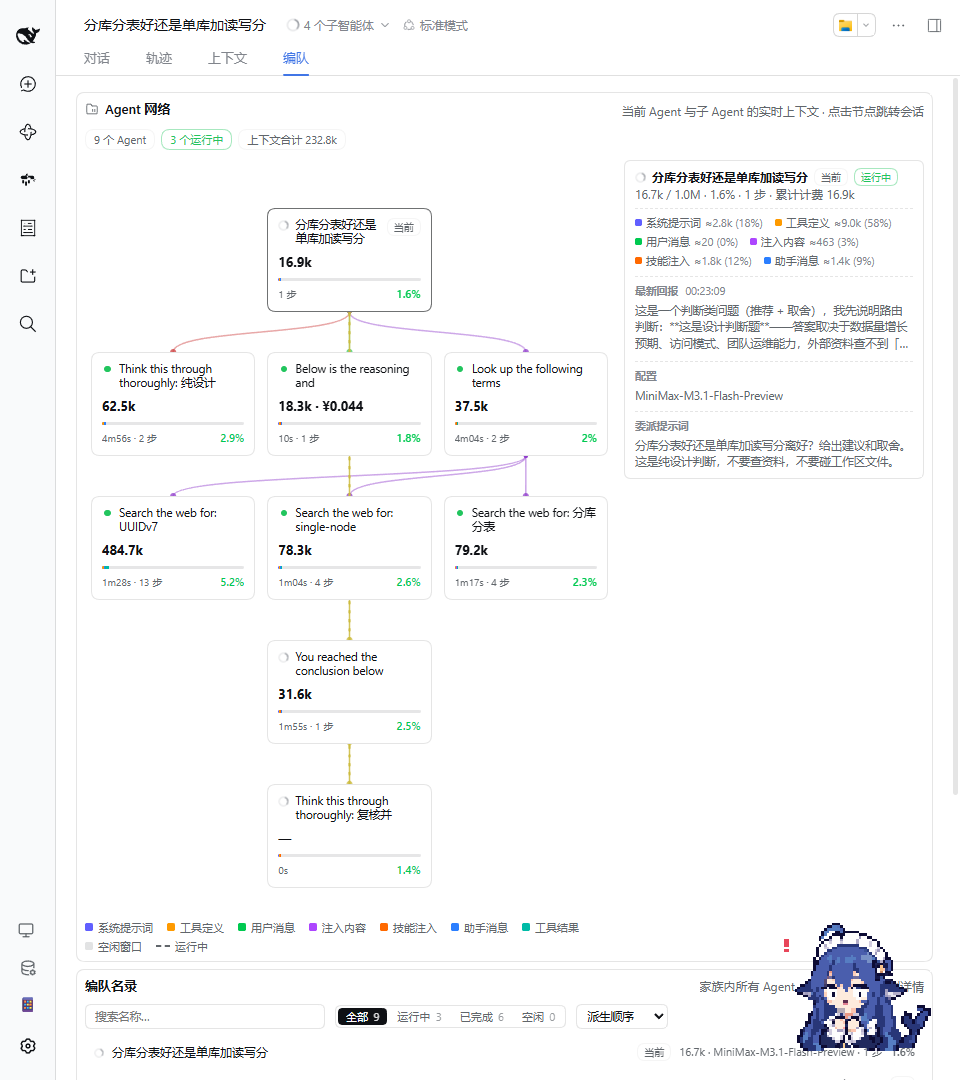
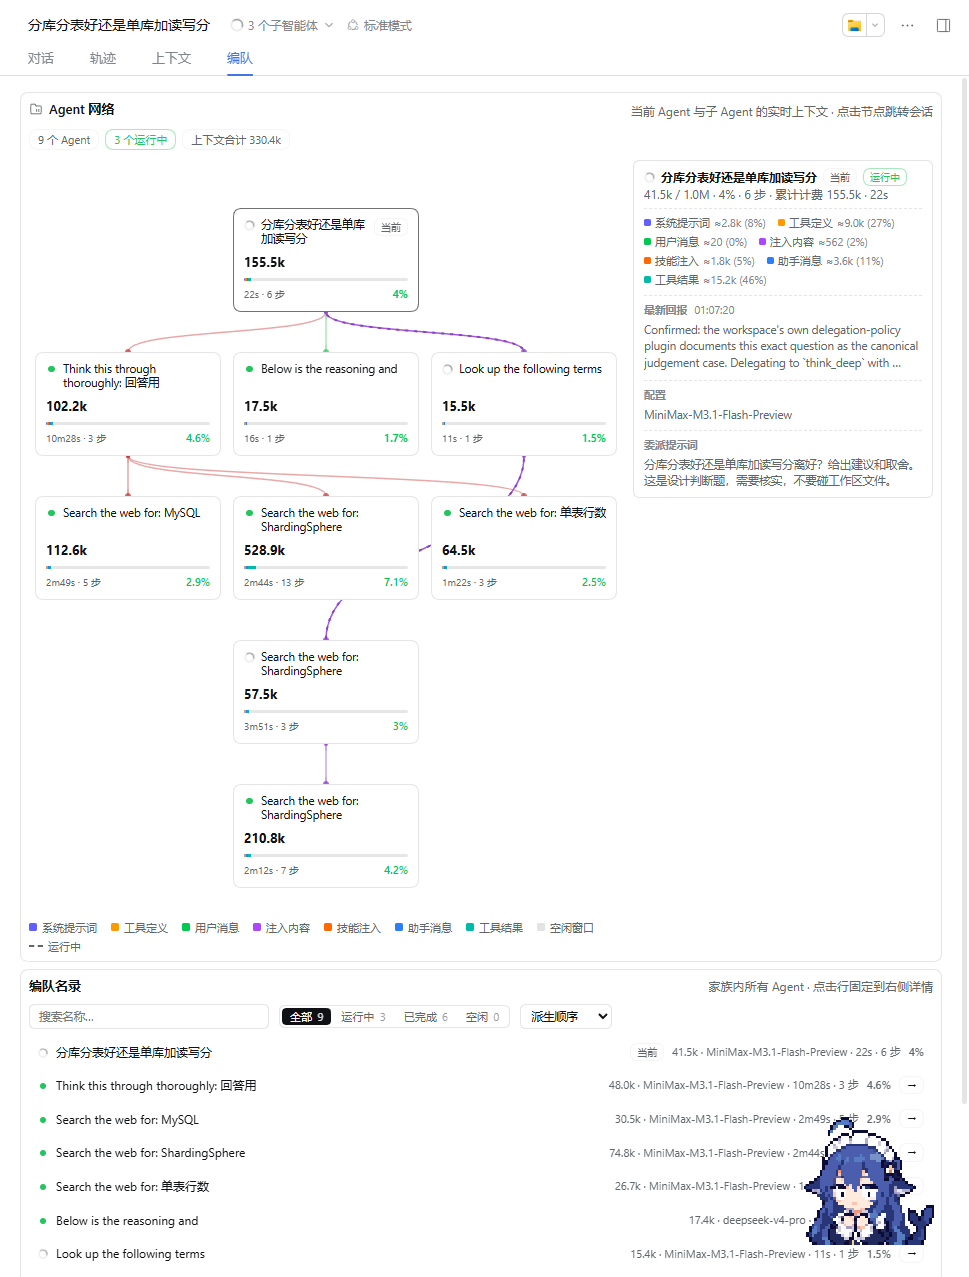
Turn the verifying child off, and record the run without it
The grounding pass already looks up what the reasoning needed checked, and
it does that from the child's own transcript — the place where the claims
that need checking actually are. A verifying child sees only the finished
conclusion and has to mine it for search terms itself, so it spends a
model's worth of work doing the same job with less to go on. In fifteen
sandbox runs it delivered a verdict twelve times and failed three, and
each failure threw the pipeline into a retrieval and a refinement nobody
needed.

It is off by default now. The code stays, and `verifyRounds: 1` or `2`
brings it back for the one thing it alone can catch: a citation that
supports a different claim than the one it was attached to.

The demo and the agent-network screenshot are a fresh run with the
verifier off. The screenshot's roster names every child by its first
line, and the row that says `deepseek-v4-pro` is the extractor running on
the model the settings page chose.

diff --git a/verify/verify.spec.ts b/verify/verify.spec.ts
@@ -1,0 +1,43 @@
+/**
+ * Regression tests for the verification pass being off by default.
+ *
+ * The grounding pass already looks up what the reasoning needed checked, and
+ * it does that from the child's own transcript. A verifying child sees only
+ * the conclusion and has to mine it for search terms itself, so it spends a
+ * model's worth of work to do the same job with less to go on — and in
+ * fifteen sandbox runs it failed to deliver a verdict three times, each of
+ * which threw the pipeline into a retrieval and a refinement nobody needed.
+ *
+ * The tests hold the default at zero and the switch at one.
+ */
+
+import { DEFAULT_VERIFY_ROUNDS } from '../src/verify.js'
+
+let failures = 0
+
+/**
+ * Assert one condition.
+ *
+ * @param name - what is being asserted.
+ * @param condition - the condition that must hold.
+ * @param detail - what to print when it does not.
+ */
+function check(name: string, condition: boolean, detail = ''): void {
+  if (condition) {
+    console.log(`  ok   ${name}`)
+    return
+  }
+  failures += 1
+  console.log(`  FAIL ${name}${detail === '' ? '' : ` — ${detail}`}`)
+}
+
+console.log('DEFAULT_VERIFY_ROUNDS')
+{
+  check('the verifying child does not run by default', DEFAULT_VERIFY_ROUNDS === 0)
+}
+
+if (failures > 0) {
+  console.error(`\n${failures} check(s) failed`)
+  process.exit(1)
+}
+console.log('\nall checks passed')

diff --git a/src/verify.ts b/src/verify.ts
@@ -25,11 +25,19 @@ export const DEFAULT_VERIFY_PROVIDER = 'spawn'
 /**
  * Default number of verification passes a delegated thought may run.
  *
- * One pass is the typical cost: one thinking child and one verifying child. A
- * second pass happens only when the first found a conflict, and it adds the
- * refinement of the conclusion plus one more verification.
+ * Zero by default. The grounding pass already looks up what the reasoning
+ * needed checked, and it does that from the child's own transcript, which is
+ * a better starting point than a finished conclusion: the terms come out of
+ * the reasoning rather than out of a summary of it. A verifying child sees
+ * only the conclusion and has to mine it for search terms itself, so it
+ * spends a model's worth of work to do the same job with less to go on.
+ *
+ * One pass still earns its keep when a conclusion cites sources: a verifier
+ * is the only one that can notice that a citation supports a different claim
+ * than the one it was attached to, which no search term would ever surface.
+ * Raise this to `1` or `2` to turn it back on.
  */
-export const DEFAULT_VERIFY_ROUNDS = 2
+export const DEFAULT_VERIFY_ROUNDS = 0
 
 /** Default budget for one verification pass, in milliseconds. */
 export const DEFAULT_VERIFY_TIMEOUT_MS = 600_000

diff --git a/README.md b/README.md
@@ -1,6 +1,6 @@
 # dsh-delegation-policy
 
-给 DeepSeek Harness 用的插件：**让 AI 该查的时候去查、该想清楚的时候想清楚，而且它跑不掉。**
+给 DeepSeek Harness 用的插件：**让 AI 该查的时候去查、该想清楚的时候想清楚——而且它跑不掉。**
 
 ![演示](docs/demo.gif)
 
@@ -14,7 +14,9 @@
 
 **二、该想的不想。** 你问它"用队列好还是读写分离好"、"重试该退避还是固定间隔"，它想三秒钟就给你答案。
 
-你当然可以在提示词里写"请先查资料再回答"。但提示词是**嘱咐**，不是**规矩**——模型一忙起来就忘。这个插件把嘱咐变成**拦得住的规矩**：AI 想偷懒的时候，插件当场把它拽回来。
+你当然可以在提示词里写"请先查资料再回答"。但提示词是**嘱咐**，不是**规矩**——模型一忙起来就忘。
+
+这个插件把嘱咐变成**拦得住的规矩**。AI 想偷懒的时候，插件当场把它拽回来。
 
 ---
 
@@ -38,7 +40,7 @@ AI 想查资料只有一条路：`search_web`。它自己直接联网会被**拒
 
 - 它压根没分类 → **把它拽回这一轮**，要求先分类，这一轮不许结束
 - 它说了"这是判断题"，但还没找人帮忙想 → 同样拽回来，要求先走 `think_deep`
-- 连着拽两次还不听 → 放行。规矩是规矩，不是陷阱——AI 总得有办法回答。
+- 连着拽两次还不听 → 放行。规矩是规矩，不是陷阱——AI 总得有办法回答
 
 > 为什么盯"这一轮说完"，而不是"这一轮结束"？
 > 一轮结束只有两种情况：某个工具说"到此为止"，或者 AI 自己答完了。只有第二种才值得拽。
@@ -61,8 +63,7 @@ AI 想查资料只有一条路：`search_web`。它自己直接联网会被**拒
 4. **另一个助手从这份记录里挑关键词** —— 跑在**你指定的模型**上，只干这一件事：把"哪几句话需要拿外部资料核对"变成几个检索词
 5. **再一个助手去搜** —— 它什么都不记得，只管查，查完把知识和出处带回来
 6. **`think_deep` 再想一轮** —— 这一轮它手上有知识了，该改主意的地方就是改主意的地方
-7. **一个专门抬杠的助手来验** —— 任务是把这个结论推翻。挑得出毛病就再查一次、再改一轮
-8. **结论回到你面前** —— 结论、关键点、假设、风险、验证记录
+7. **结论回到你面前** —— 结论、关键点、假设、风险
 
 **搜回来的那些资料不会直接给你。** 它们只用来改变 AI 的想法，给你的始终是**想完之后的那份结论**。
 
@@ -74,7 +75,21 @@ AI 想查资料只有一条路：`search_web`。它自己直接联网会被**拒
 
 Harness 自带的「编队」页，把每一个出去干活的助手画成一张卡片，实时显示它用了多少上下文、跑了多久、花了多少钱。
 
-上面那张图是一次真实运行——三个并行的、一层套一层的，就是上面那八步。
+上面那张图是一次真实运行。最上面是主 AI，第二行三个并行——**第一轮推理**、**挑关键词的**、**查资料的**——第三行是几个搜索助手，然后是**第二轮推理**。
+
+看一眼下面的名录就知道谁是谁：
+
+| 名录里的名字 | 它是谁 | 用哪个模型 |
+|---|---|---|
+| `Think this through thoroughly: 回答用…` | 第一轮推理 | 跟着主 AI |
+| `Below is the reasoning and…` | 挑关键词的 | **你指定的那个** |
+| `Look up the following terms…` | 查资料的 | 跟着主 AI |
+| `Search the web for: …` | 搜索助手 | 跟着主 AI |
+| `You reached the conclusion below…` | 第二轮推理 | 跟着主 AI |
+
+> **曾经还有一个"抬杠助手"**，专门去挑结论的毛病，挑出来就再查一次、再改一轮。
+> 现在**默认没有它了**——上面第 4 步已经在干同样的活，而且干得更好：它读的是孩子的**完整推理**，能挖出该搜什么；抬杠助手只看到结论，还得自己再挖一遍，而且经常交不出卷。
+> 唯一它能抓到而别的抓不到的，是"引用了来源，但引的不是这一条"这类毛病。想把它加回来，把配置里的 `verifyRounds` 改成 `1` 或 `2` 就行。
 
 ---
 
@@ -114,6 +129,7 @@ dsh plugin add /path/to/dsh-delegation-policy
         judgementEnabled: true             # 要不要强制判断题走委派
         judgementMaxPullbacks: 2           # 最多拽回几次
         watchMaxChars: 8000                # 旁听能记下多少字
+        verifyRounds: 0                    # 抬杠助手跑几轮（0 = 不跑）
 ```
 
 页面上改的和这里改的是**同一份配置**：页面改了这边就变，这边改了刷新页面就看见。
